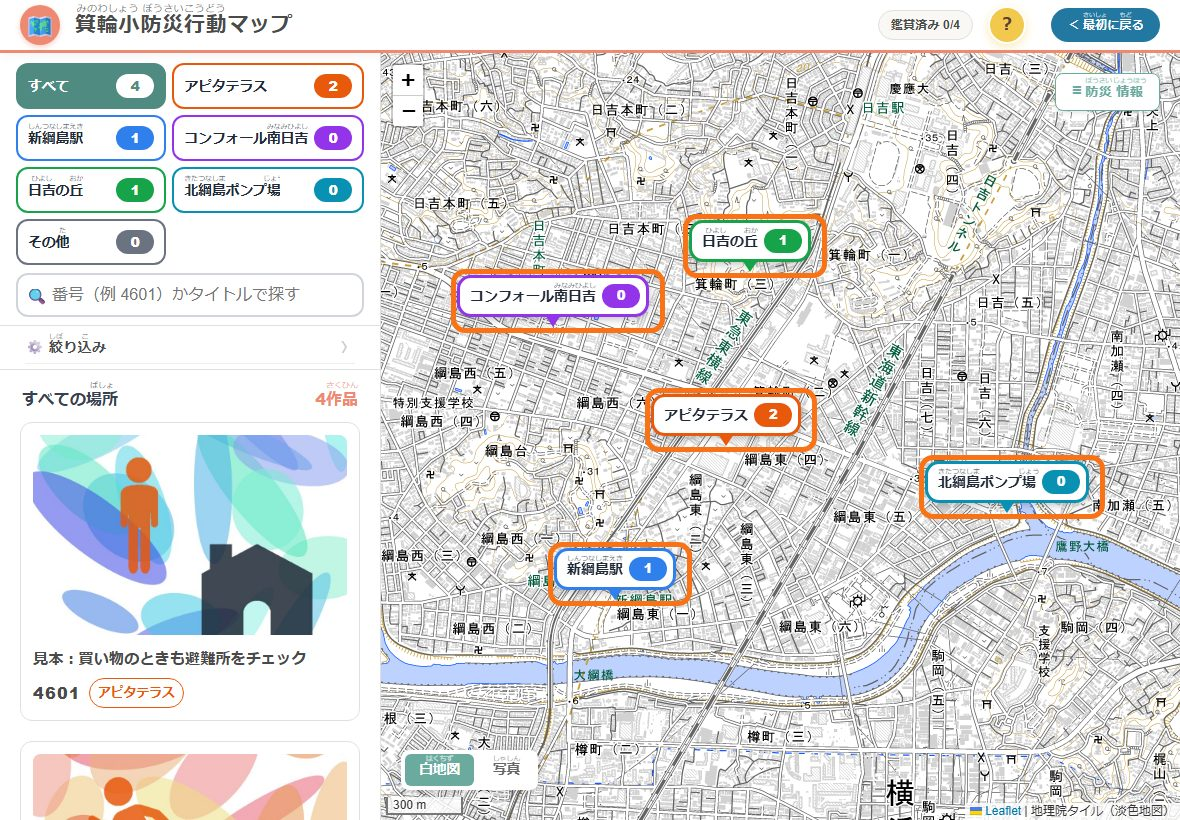
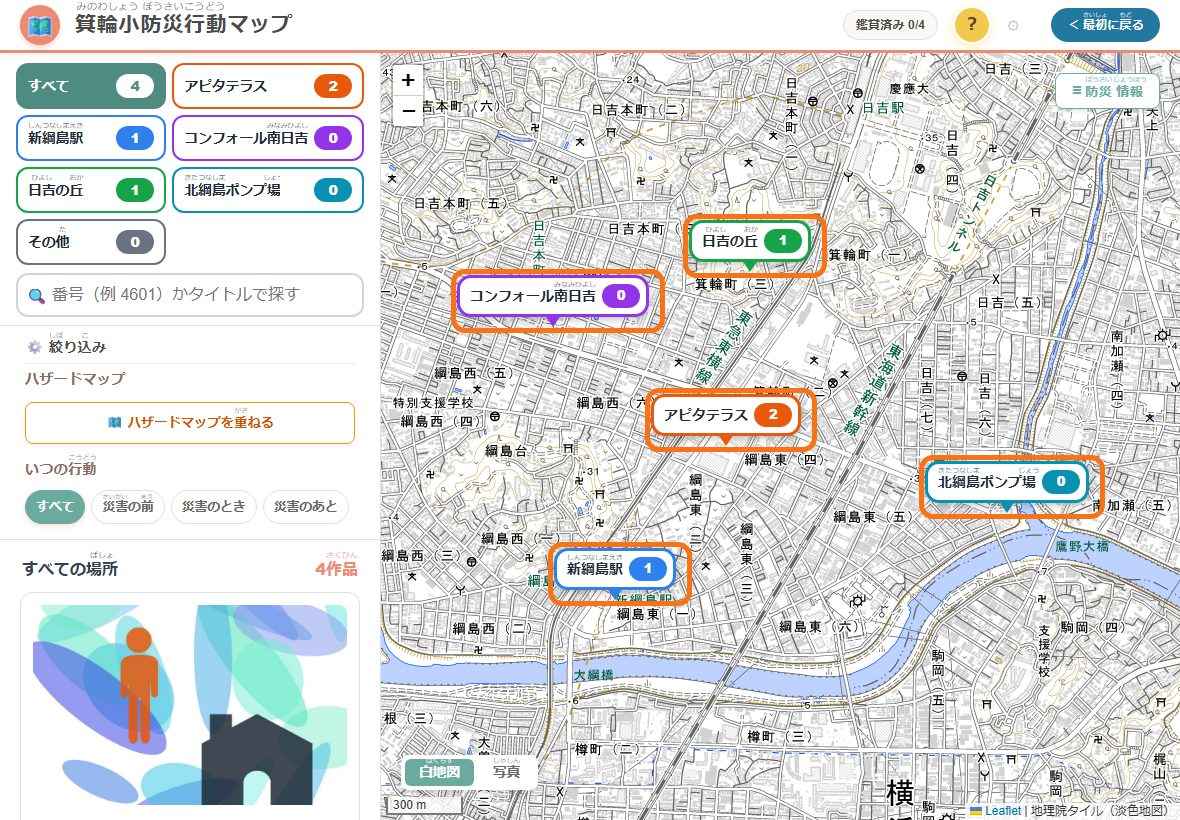
防災行動マップの使い方の写真を、矢上 v3 を移したあとの画面で撮り直す
- 絞り込みをいつも表示・歯車（管理画面の入口）・白地図（はくちず）／写真の画面
- 手元の Worker に入れた見本の作品で撮り、撮ったあとに見本は消した

diff --git a/docs/CHANGELOG_yagami_port.md b/docs/CHANGELOG_yagami_port.md
@@ -92,5 +92,5 @@
 
 ## 気づいたこと（今回は直していない）
 
-- 防災行動マップの使い方の写真（`guide_0N.jpg`・`detail_guide_0N.jpg`）は、絞り込みをいつも出す前の画面で撮ったもの。撮り直すなら `tools/make_guide_images.mjs`
+- 防災行動マップの使い方の写真（`guide_0N.jpg`・`detail_guide_0N.jpg`）は、移したあとの画面（絞り込みをいつも表示・歯車つき）で、手元の Worker に入れた見本の作品で撮り直した（見本は撮ったあとに消した）。授業の作品で撮り直すときは `tools/make_guide_images.mjs`
 - 本番に、試しに登録された作品が4件ある（id 15〜18）
